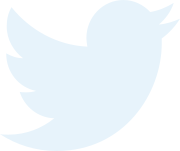
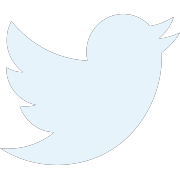
updated links and made the twitter image a square

diff --git a/index.html b/index.html
@@ -156,9 +156,9 @@
   <section class="footer">
     <div class="container">
       <div class="row footer-info-row">
-        <img class="center-block" src="images/fbIcon.png">
-        <img class="center-block" src="images/mailIcon.png">
-        <img class="center-block" src="images/twitterIcon.png">
+        <a href="https://www.facebook.com/HackTX" target="_blank"><img class="center-block" src="images/fbIcon.png"></a>
+        <a href="mailto:hello@freetailhackers.com"><img class="center-block" src="images/mailIcon.png"></a>
+        <a href="https://twitter.com/HackTX" target="_blank"><img class="center-block" src="images/twitterIcon.png"></a>
       </div>
       <p>MADE WITH <i class="fa fa-heart" aria-hidden="true"></i> IN AUSTIN, TX</p>
     </div>
